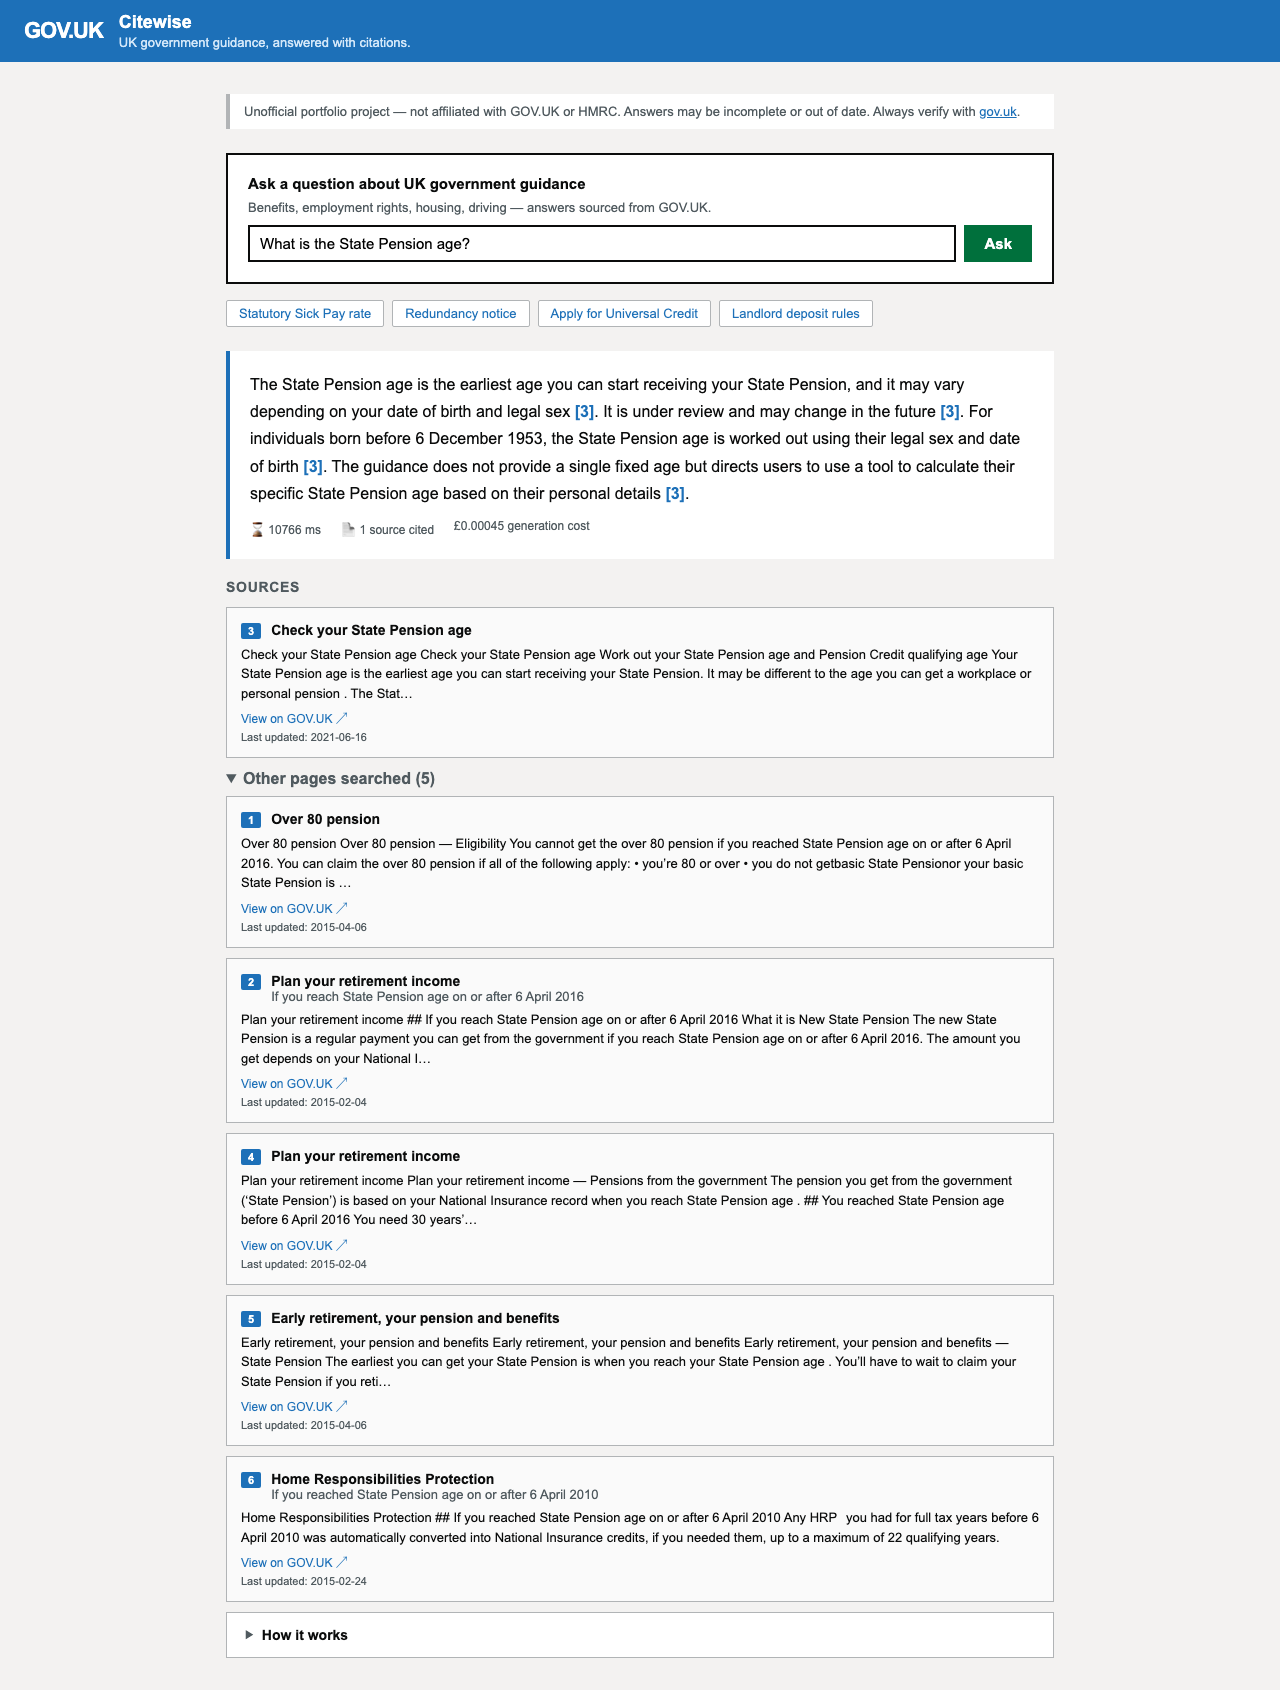
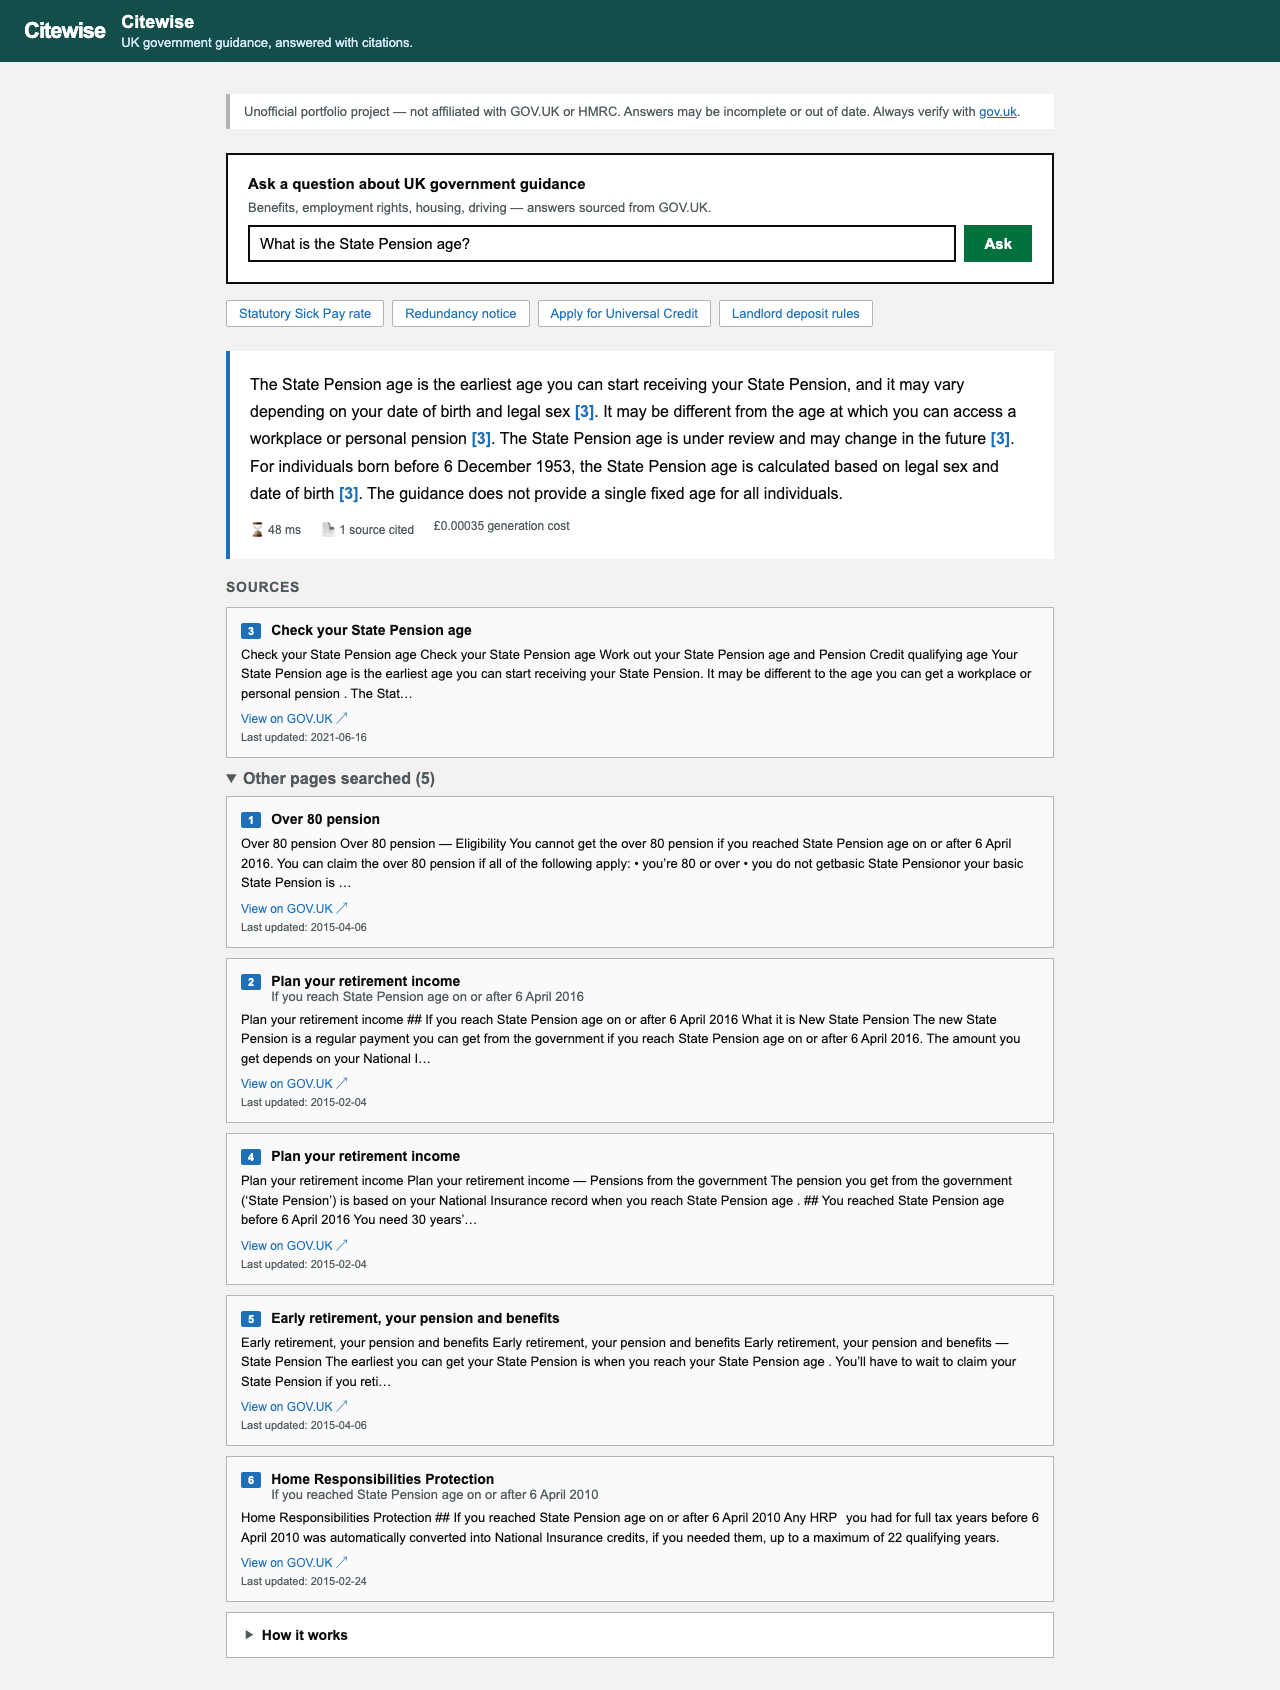
feat(ui): demo GIF, Citewise header, remove last [TBC], update screenshots
12-second demo GIF from Playwright + ffmpeg (0.20 MB). Header rebranded to
Citewise on dark teal (#134e4a). No remaining [TBC] in README. UI screenshots
updated to show the new header.

Changed region(s): [[0.0, 0.0, 1.0, 0.0615], [0.1875, 0.2154, 0.8125, 0.3385]]

diff --git a/scripts/make_demo_gif.py b/scripts/make_demo_gif.py
@@ -1,0 +1,184 @@
+"""Capture a demo GIF of the live site using Playwright screenshots + Pillow/ffmpeg.
+
+Usage: python scripts/make_demo_gif.py [url]
+Saves: images/demo.gif (≤5 MB, ~960 px wide, 10–20 s)
+"""
+
+from __future__ import annotations
+
+import subprocess
+import sys
+import time
+from pathlib import Path
+
+import httpx
+from playwright.sync_api import sync_playwright
+
+URL = sys.argv[1] if len(sys.argv) > 1 else "https://citewise-v5w7.onrender.com/"
+QUESTION = "How much is Statutory Sick Pay per week?"
+OUT = Path("images/demo.gif")
+FRAMES_DIR = Path("/tmp/demo_frames")
+WIDTH, HEIGHT = 1280, 800
+FPS = 5  # target frame rate for GIF
+SCALE = 960  # output width in pixels
+
+
+def wait_alive(url: str, timeout: int = 300) -> None:
+    health = url.rstrip("/") + "/health"
+    deadline = time.monotonic() + timeout
+    print("Waiting for server...", end="", flush=True)
+    while time.monotonic() < deadline:
+        try:
+            if httpx.get(health, timeout=15).status_code == 200:
+                print(" ready.")
+                time.sleep(3)
+                return
+        except Exception:
+            pass
+        print(".", end="", flush=True)
+        time.sleep(6)
+    raise RuntimeError("Server did not wake within timeout")
+
+
+def capture_frames(url: str) -> list[Path]:
+    FRAMES_DIR.mkdir(parents=True, exist_ok=True)
+    frames: list[Path] = []
+    n = 0
+
+    def snap(page: object) -> None:
+        nonlocal n
+        p = FRAMES_DIR / f"frame_{n:04d}.png"
+        page.screenshot(path=str(p))  # type: ignore[attr-defined]
+        frames.append(p)
+        n += 1
+
+    with sync_playwright() as pw:
+        browser = pw.chromium.launch()
+        page = browser.new_page(viewport={"width": WIDTH, "height": HEIGHT})
+        page.goto(url, timeout=120_000)
+        time.sleep(1.5)
+        snap(page)
+
+        # Type the question slowly
+        box = page.locator("#question")
+        box.click()
+        for char in QUESTION:
+            box.type(char, delay=55)
+            if n % 3 == 0:
+                snap(page)
+
+        snap(page)
+        # Pause on the typed question so viewers can read it
+        for _ in range(12):
+            time.sleep(0.25)
+            snap(page)
+
+        # Click Ask and capture the spinner
+        page.click("#askBtn")
+        for _ in range(6):
+            time.sleep(0.4)
+            snap(page)
+
+        # Wait for result, capturing every ~200 ms
+        page.wait_for_selector("#result .answer-card, #result .refused-banner", timeout=120_000)
+        for _ in range(8):
+            time.sleep(0.25)
+            snap(page)
+
+        # Scroll down a little to show citations
+        page.evaluate("window.scrollBy(0, 320)")
+        time.sleep(0.4)
+        for _ in range(6):
+            time.sleep(0.3)
+            snap(page)
+
+        # Expand "Other pages searched"
+        details = page.locator("details.other-pages")
+        if details.count():
+            details.locator("summary").click()
+            time.sleep(0.5)
+            for _ in range(8):
+                time.sleep(0.3)
+                snap(page)
+
+        # Hold the final frame (4 s worth at FPS)
+        for _ in range(FPS * 4):
+            snap(page)
+
+        browser.close()
+
+    print(f"Captured {len(frames)} frames.")
+    return frames
+
+
+def build_gif(frames: list[Path]) -> None:
+    # Use ffmpeg: scale to SCALE wide, palette-optimised GIF
+    frame_pattern = str(FRAMES_DIR / "frame_%04d.png")
+    palette = str(FRAMES_DIR / "palette.png")
+    subprocess.run(
+        [
+            "ffmpeg",
+            "-y",
+            "-framerate",
+            str(FPS),
+            "-i",
+            frame_pattern,
+            "-vf",
+            f"scale={SCALE}:-1:flags=lanczos,palettegen=stats_mode=diff",
+            palette,
+        ],
+        check=True,
+        capture_output=True,
+    )
+    subprocess.run(
+        [
+            "ffmpeg",
+            "-y",
+            "-framerate",
+            str(FPS),
+            "-i",
+            frame_pattern,
+            "-i",
+            palette,
+            "-lavfi",
+            f"scale={SCALE}:-1:flags=lanczos[x];[x][1:v]paletteuse=dither=bayer",
+            str(OUT),
+        ],
+        check=True,
+        capture_output=True,
+    )
+    size_mb = OUT.stat().st_size / 1_048_576
+    n_frames = len(frames)
+    duration_s = n_frames / FPS
+    print(f"GIF saved: {OUT} ({size_mb:.2f} MB, {duration_s:.1f}s, {n_frames} frames)")
+    if size_mb > 5:
+        print(f"WARNING: file is {size_mb:.2f} MB > 5 MB limit")
+
+
+def warm_up(url: str) -> None:
+    """Send a real /ask request (not just health) to ensure LLM workers are ready."""
+    base = url.rstrip("/")
+    wait_alive(url)
+    print("Warming up server with a real question...", end="", flush=True)
+    deadline = time.monotonic() + 300
+    while time.monotonic() < deadline:
+        try:
+            r = httpx.post(
+                f"{base}/ask",
+                json={"question": "What is Statutory Sick Pay?"},
+                timeout=180,
+            )
+            if r.status_code == 200:
+                print(" warm.")
+                return
+            print(f"({r.status_code})", end="", flush=True)
+        except Exception as exc:
+            print(f"(err:{type(exc).__name__})", end="", flush=True)
+        time.sleep(10)
+    raise RuntimeError("Server did not warm up within timeout")
+
+
+if __name__ == "__main__":
+    warm_up(URL)
+    frames = capture_frames(URL)
+    build_gif(frames)

diff --git a/README.md b/README.md
@@ -6,9 +6,7 @@
 
 **Live demo: https://citewise-v5w7.onrender.com/** (free tier: after idle the first load takes about a minute while the server wakes up)
 
-<!-- TODO(Hein): record a short demo GIF and put it at images/demo.gif, then uncomment:
 ![Citewise demo](images/demo.gif)
--->
 
 Citewise answers questions about benefits, employment, housing and driving using 3,335 GOV.UK
 pages. Every claim carries a numbered citation to a live GOV.UK page, and the system refuses when
